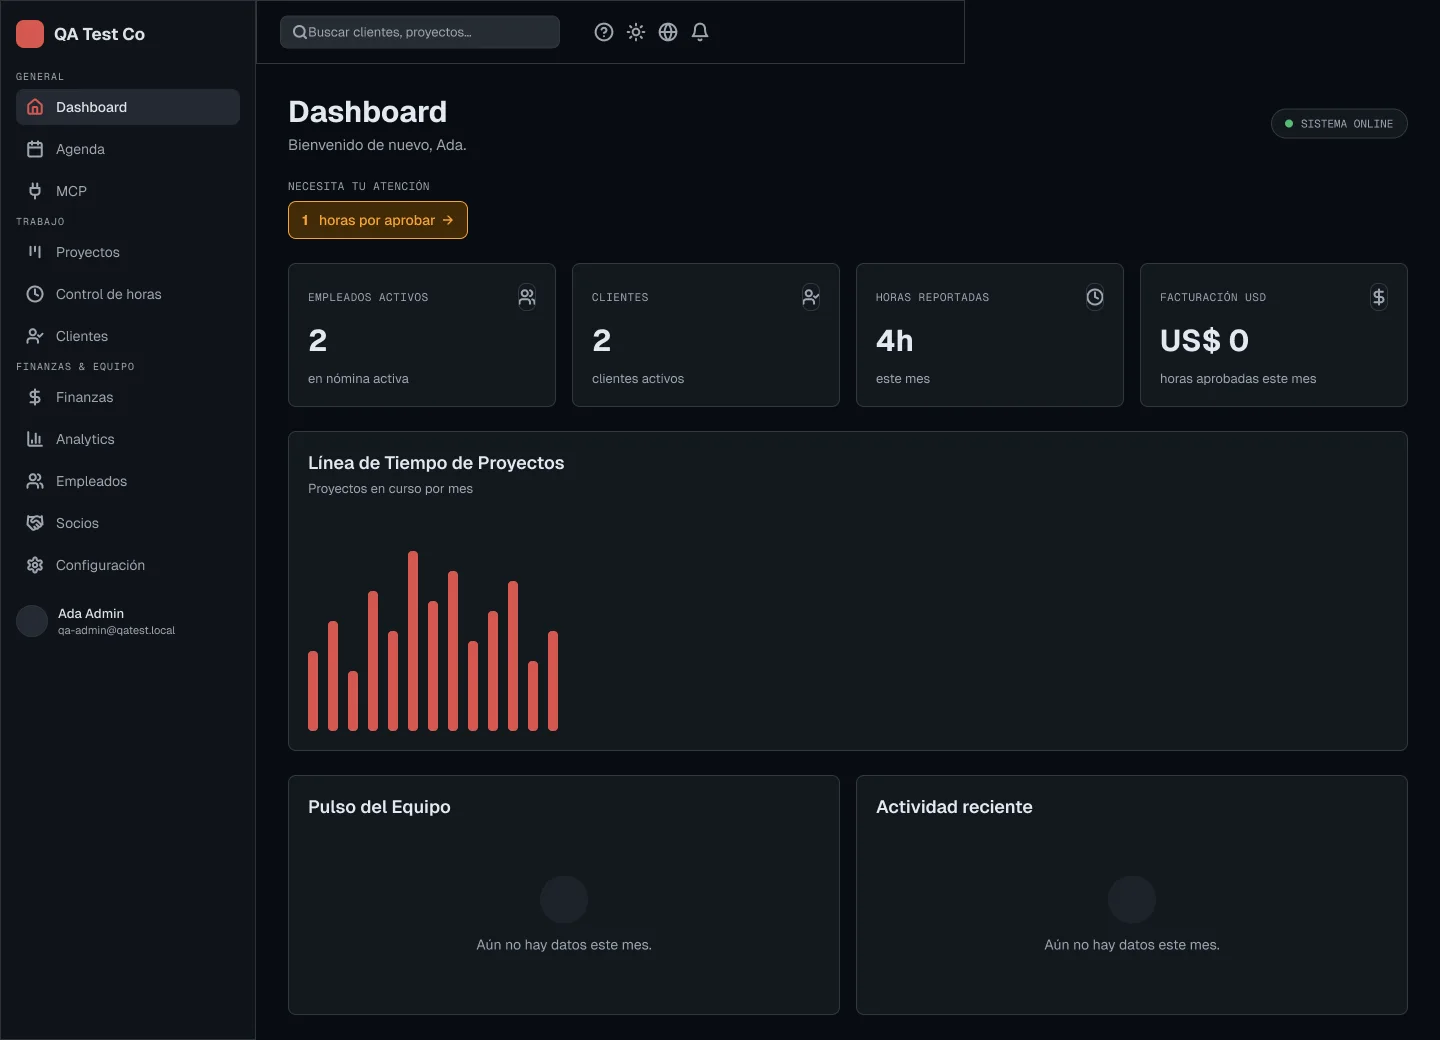
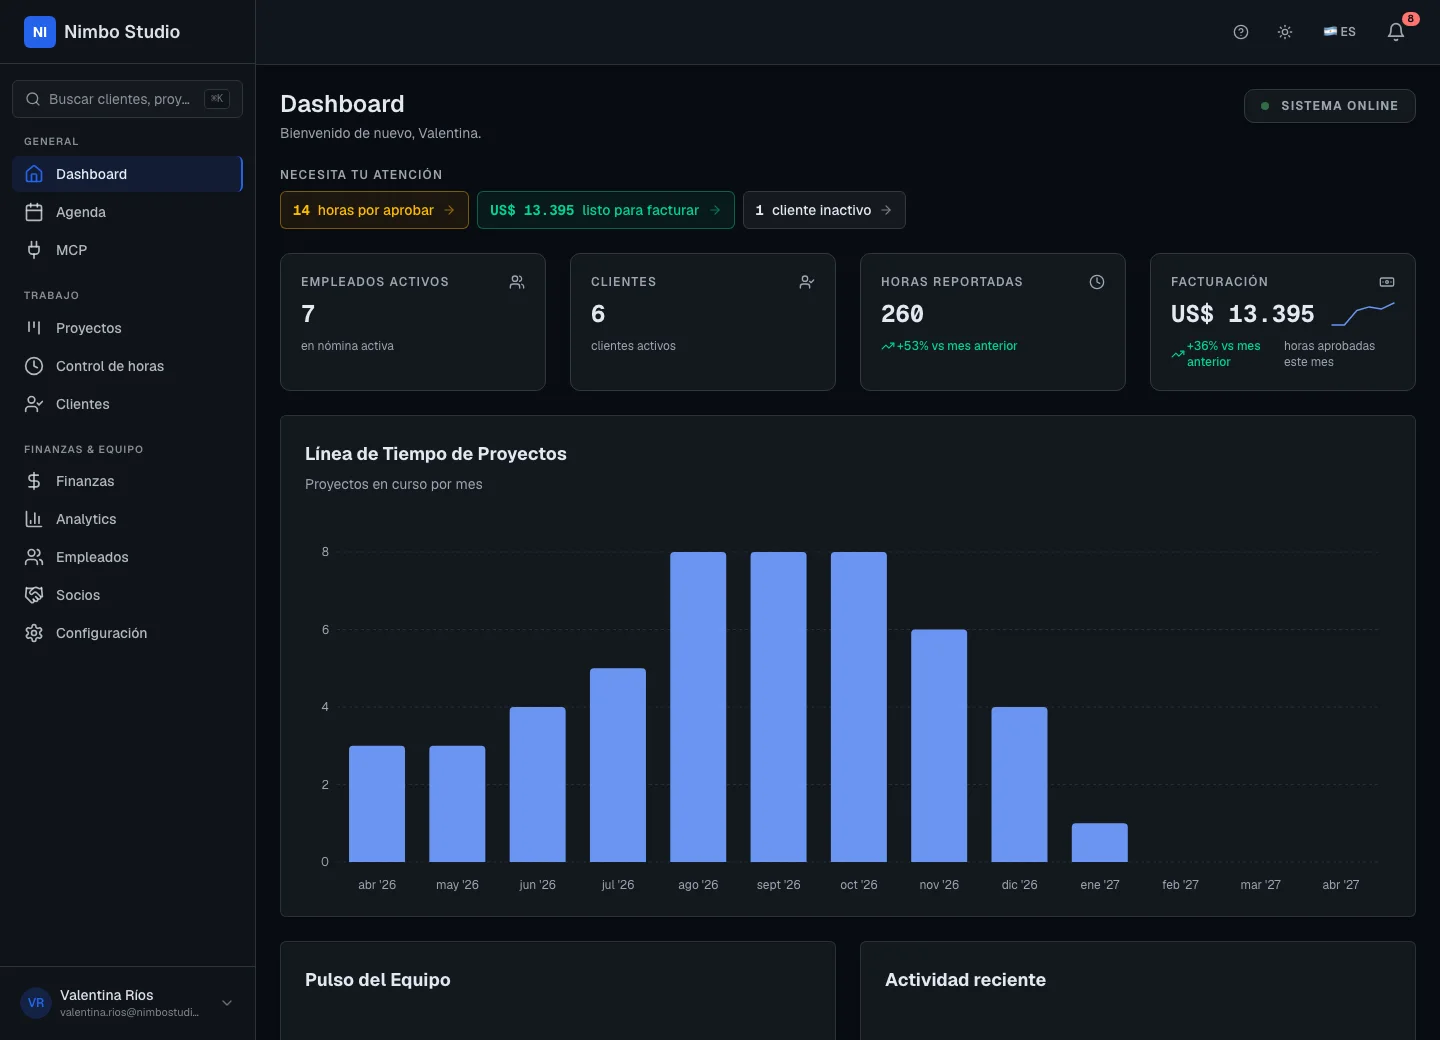
feat(work): recapture Orbys screens with demo data

diff --git a/odd/tasks/portfolio-followups.md b/odd/tasks/portfolio-followups.md
@@ -22,7 +22,7 @@ Close the four optional follow-ups left after `project-case-studies` and the cap
 ## Tasks
 
 - [x] T1 — Align the offline-first post (es/en) with Elevate's current sync engine (route: delegated writer, preparation trigger: reads the Elevate repo).
-- [ ] T2 — Recapture the Orbys cover and gallery with local demo data (route: delegated, needs the Orbys repo and local seed).
+- [x] T2 — Recapture the Orbys cover and gallery with local demo data (route: delegated, needs the Orbys repo and local seed).
 - [ ] T3 — capsulecodes.com admin: upload or replace the project cover (`image`) (route: delegated writer, 2+ files).
 - [x] T4 — Verify HTG `cover_media_id` provenance and fix it if wrong (route: inline, read-only SQL first).
 
@@ -45,3 +45,4 @@ Close the four optional follow-ups left after `project-case-studies` and the cap
 - T1 done: both posts aligned with the Elevate sync engine; pnpm build, pnpm test and the fitcoach grep checked. commit: docs(blog): align offline-first post with Elevate's sync engine
 - T1 follow-up: es post restored to voseo (the author's es register, as in `hola-mundo`); commit `24e6930`. T1 commits: `2daa8c4`, `24e6930`. RDD assess (`432e5f1..2daa8c4`): medium, `review_due=false` (`under_budget`); pending in slice.
 - T4 done (read-only, no DB write). HTG `ebf137d8` has `cover_media_id = 3c193320…`, which is the mediaId of its last screenshot. The pre-cleanup backup did not include that column, so the original value cannot be proven. Evidence that it is inert: `lib/project-media.ts#getProjectThumb` only reads `coverMediaId` when `image` is empty, and every project now has `image`. The only visible effect is the "cover" star on that screenshot in the admin gallery, which T3 will address (cover now lives in `image`).
+- T2 done: recaptured dashboard, proyectos, clientes, control-horas and agenda (1440x1040, dark, es) plus the cover source (`scripts/covers/assets/orbys/screenshot.png`, 1600x1000 Proyectos) and regenerated the cover with `pnpm covers orbys`. The landing image is unchanged. The agenda alt text was updated (the screen is now the upcoming-events list plus mini calendar). Demo data: fictional agency "Nimbo Studio" (7 employees, 7 clients, 10 projects, 48 tasks, ~280 time entries, notifications), generated by a scratchpad SQL script, never committed. Local-only evidence: an isolated throwaway Supabase stack (own project id and ports 564xx, copy of the migrations, `supabase stop --no-backup` afterwards) instead of the user's running orbys stack; `next dev` started with Supabase URL/keys and Stripe/Resend/Upstash/Sentry vars overridden inline (no `.env` read); the browser only contacted localhost:3100 (plus the Vercel analytics script); the Orbys repo `git status` is unchanged (`M supabase/config.toml`, `?? .atl/`). Checks: pnpm build ok, pnpm test 289 passed.
